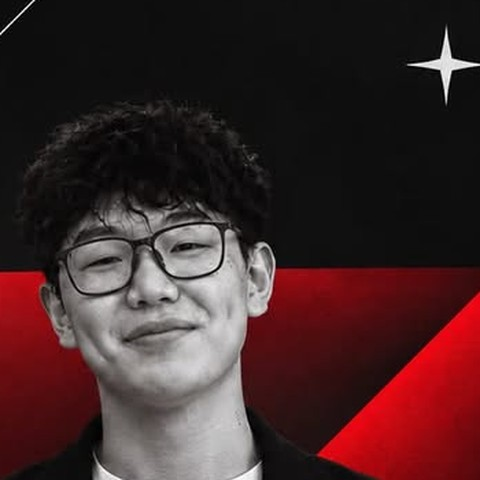
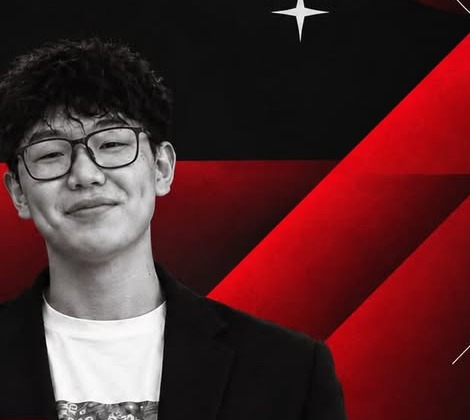
Show full speaker photos without cropping/zooming
- Re-crop the two speaker photos wider (full head-to-chest, including the
  TEDx-branded background art) instead of the previous tight face-only
  crop, and exclude the name/bio text overlay from the original social
  graphics.
- Switch speaker photo rendering from object-fit: cover (which crops to
  fill) to object-fit: contain, so the whole photo is always visible,
  letterboxed on the card's dark background instead of being zoomed/cut.
  Applies to both the card avatar and the full photo in the detail modal.
- Remove the hover zoom-in effect on speaker photos to match.

Claude-Session: https://claude.ai/code/session_01Qx4rc4ffXFwXsaGP5T1Eab

diff --git a/artifacts/tedx-ub-empathy/src/index.css b/artifacts/tedx-ub-empathy/src/index.css
@@ -213,8 +213,6 @@ a { color: inherit; text-decoration: none; }
 .speaker-card { flex: 0 0 225px; padding: 18px; scroll-snap-align: start; border: 1px solid var(--line); background: var(--panel); transition: transform .25s ease, border-color .25s ease, box-shadow .25s ease; text-align: left; cursor: pointer; }
 .speaker-card:hover, .speaker-card:focus-visible { transform: translateY(-6px); border-color: rgba(235,0,40,.7); box-shadow: 0 18px 40px rgba(0,0,0,.35); }
 .speaker-avatar { position: relative; display: grid; place-items: center; aspect-ratio: 1; margin-bottom: 15px; overflow: hidden; border: 1px solid var(--line); background: radial-gradient(circle at 60% 35%, rgba(235,0,40,.3), transparent 45%), #22262e; color: var(--ted-hi); font: 900 45px var(--app-font-mono); }
-.speaker-avatar.has-photo img { transition: transform .4s ease; }
-.speaker-card:hover .speaker-avatar.has-photo img, .speaker-card:focus-visible .speaker-avatar.has-photo img { transform: scale(1.08); }
 .speaker-avatar-overlay {
   position: absolute;
   inset: 0;
@@ -354,12 +352,20 @@ a { color: inherit; text-decoration: none; }
   padding: 0;
   background: #22262e;
 }
-.speaker-avatar.has-photo img,
 .roster-initials.has-photo img,
 .modal-avatar.has-photo img {
   width: 100%;
   height: 100%;
   object-fit: cover;
+  display: block;
+}
+/* Speaker photos show the whole original image — no cropping/zooming —
+   letterboxed on the card's own dark background when the aspect ratio
+   doesn't match exactly. */
+.speaker-avatar.has-photo img {
+  width: 100%;
+  height: 100%;
+  object-fit: contain;
   display: block;
 }
 
@@ -381,8 +387,8 @@ a { color: inherit; text-decoration: none; }
   display: block;
   width: 100%;
   aspect-ratio: 4 / 5;
-  object-fit: cover;
-  object-position: top center;
+  object-fit: contain;
+  object-position: center;
   border-radius: 0;
   background: #22262e;
 }
